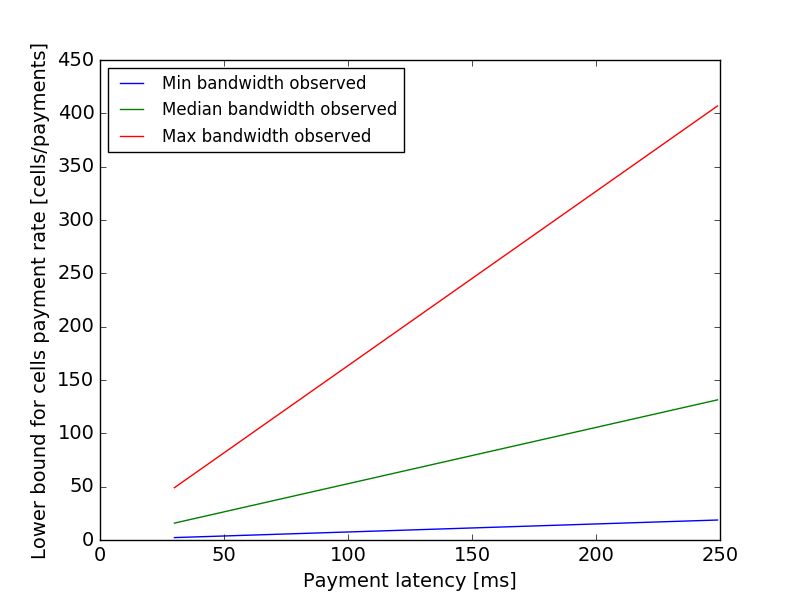
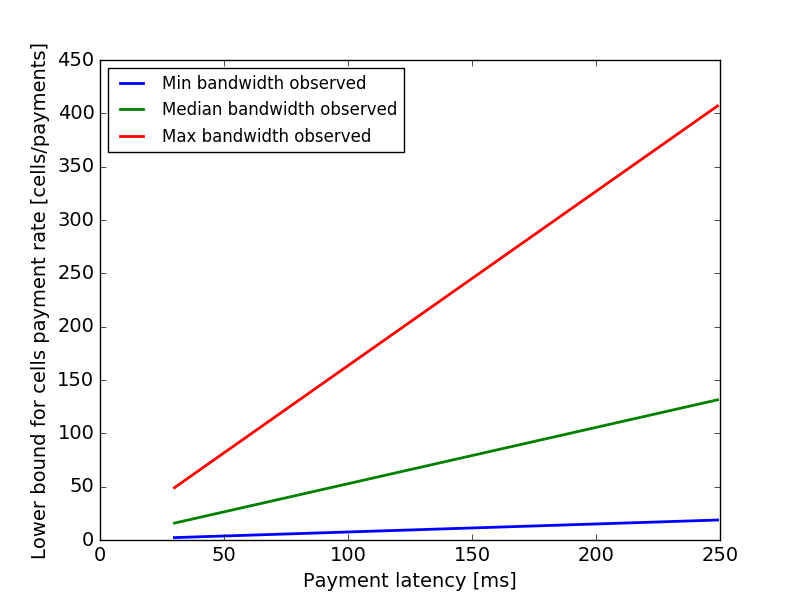
increase linewidth

diff --git a/tools/plot_payment_rate.py b/tools/plot_payment_rate.py
@@ -57,9 +57,9 @@ if __name__ == "__main__":
     median = median[len(median)/2]
     fig = plt.figure()
     x = range(30, 250)
-    plt.plot(x, [bw_to_cells_per_second(maxlastquartile, args.dsize)*(i/1000.0) for i in x])
-    plt.plot(x, [bw_to_cells_per_second(median, args.dsize)*(i/1000.0) for i in x])
-    plt.plot(x, [bw_to_cells_per_second(minfstquartile, args.dsize)*(i/1000.0) for i in x])
+    plt.plot(x, [bw_to_cells_per_second(maxlastquartile, args.dsize)*(i/1000.0) for i in x], linewidth=2)
+    plt.plot(x, [bw_to_cells_per_second(median, args.dsize)*(i/1000.0) for i in x], linewidth=2)
+    plt.plot(x, [bw_to_cells_per_second(minfstquartile, args.dsize)*(i/1000.0) for i in x], linewidth=2)
     plt.xlabel('Payment latency [ms]')
     plt.ylabel('Lower bound for cells payment rate [cells/payments]')
     plt.legend(['Min bandwidth observed', 'Median bandwidth observed', 'Max bandwidth observed'], loc="best")
